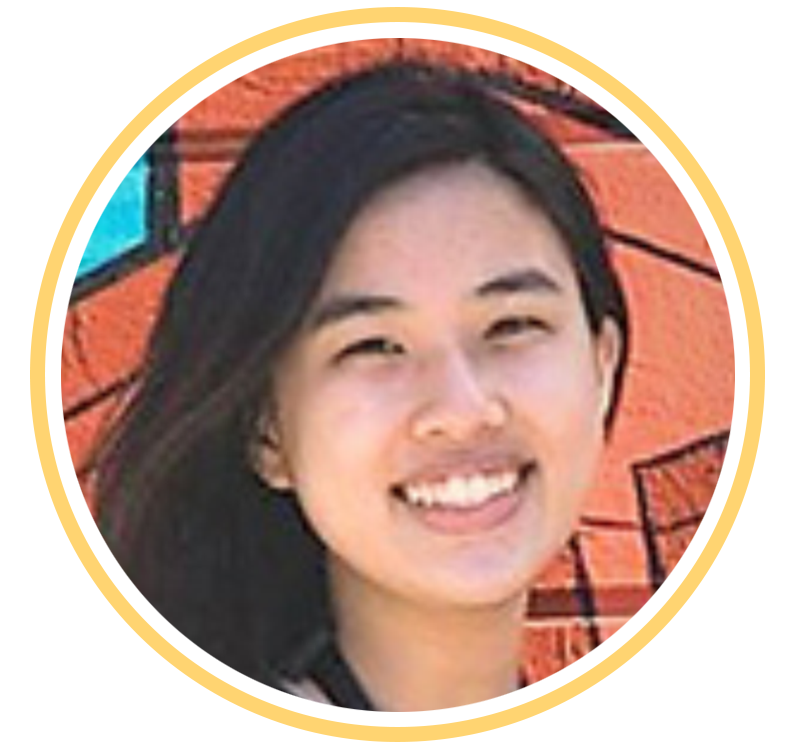
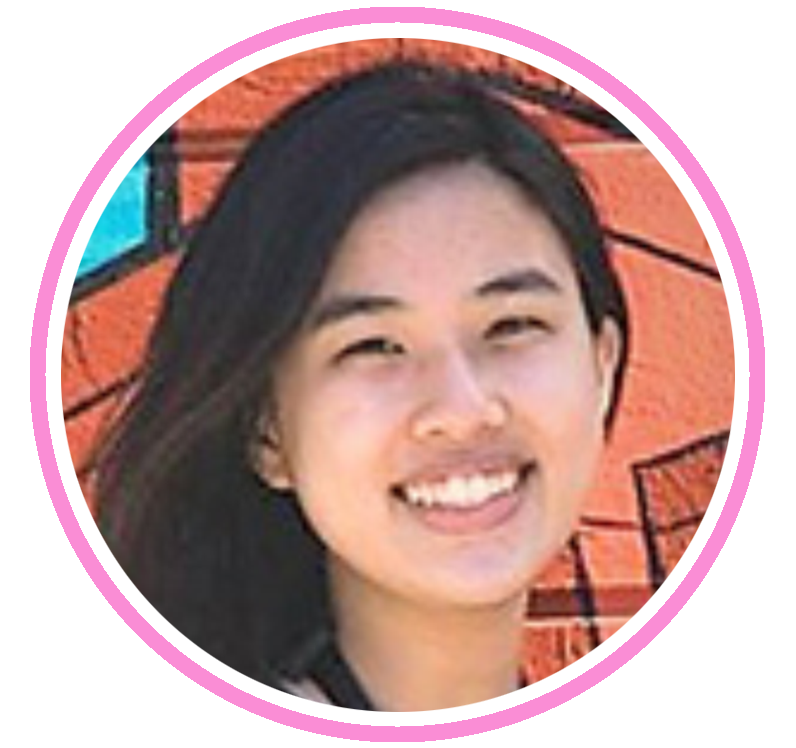
updated jesslyn circle color updated challenges page

Changed region(s): [[0.0302, 0.0, 0.9648, 1.0]]

diff --git a/css/main.css b/css/main.css
@@ -2214,8 +2214,8 @@ margin-top: 1em;
 }
 .col-md-4.prize p{
   /*color: black;*/
-  line-height: 1em;
-  max-width:80%;
+  line-height: 1.2em;
+  max-width:95%;
 }
 
 .row.challengerow{
